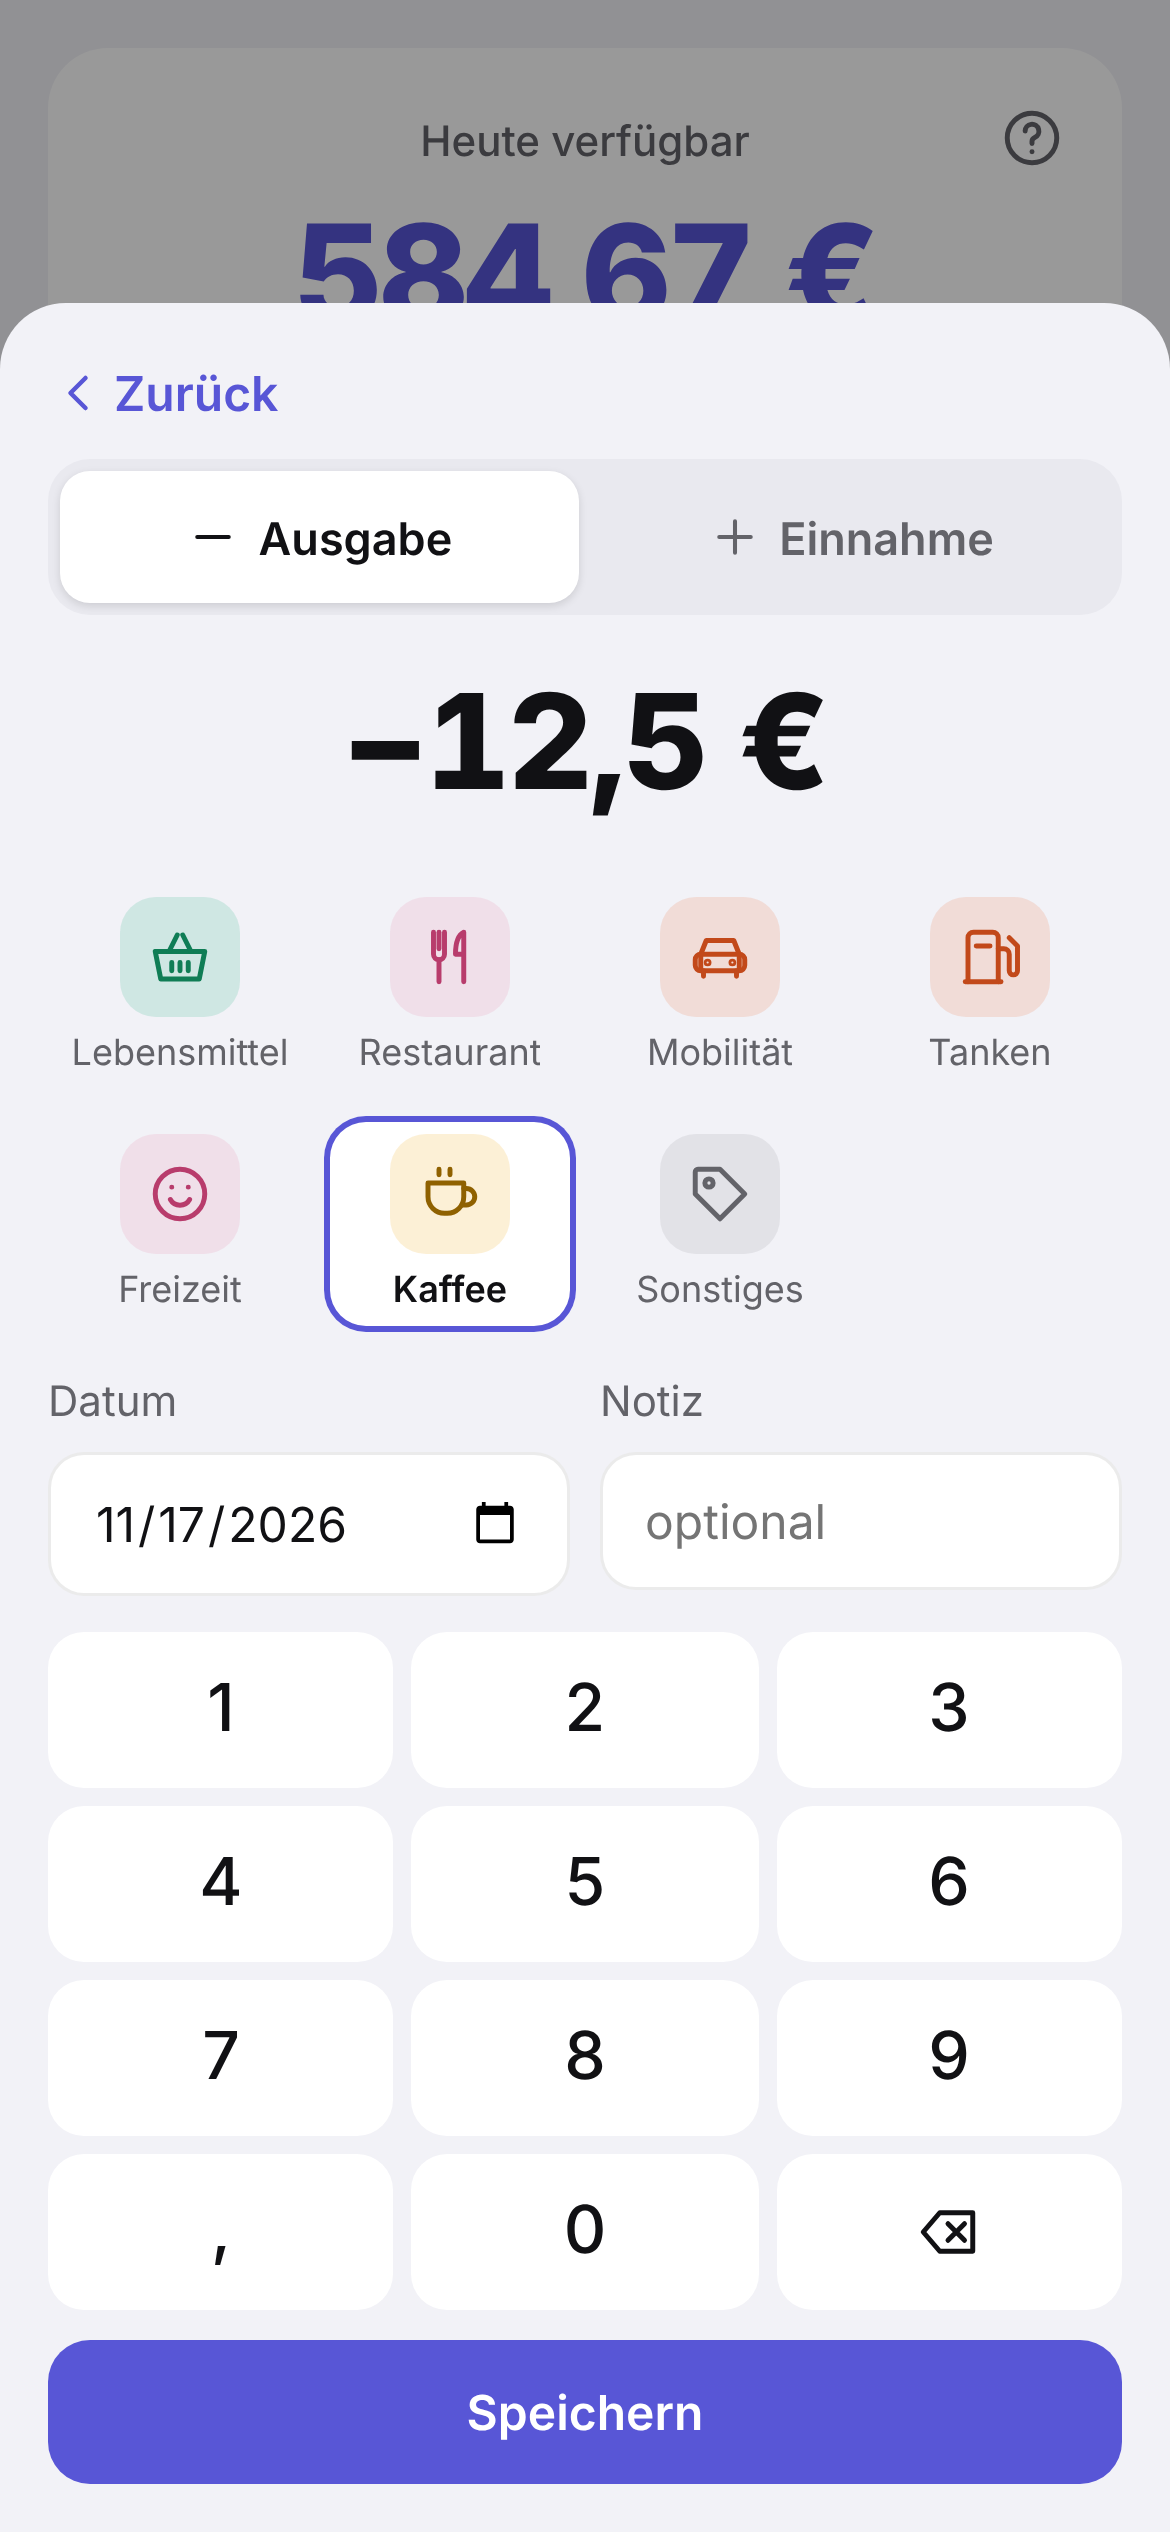
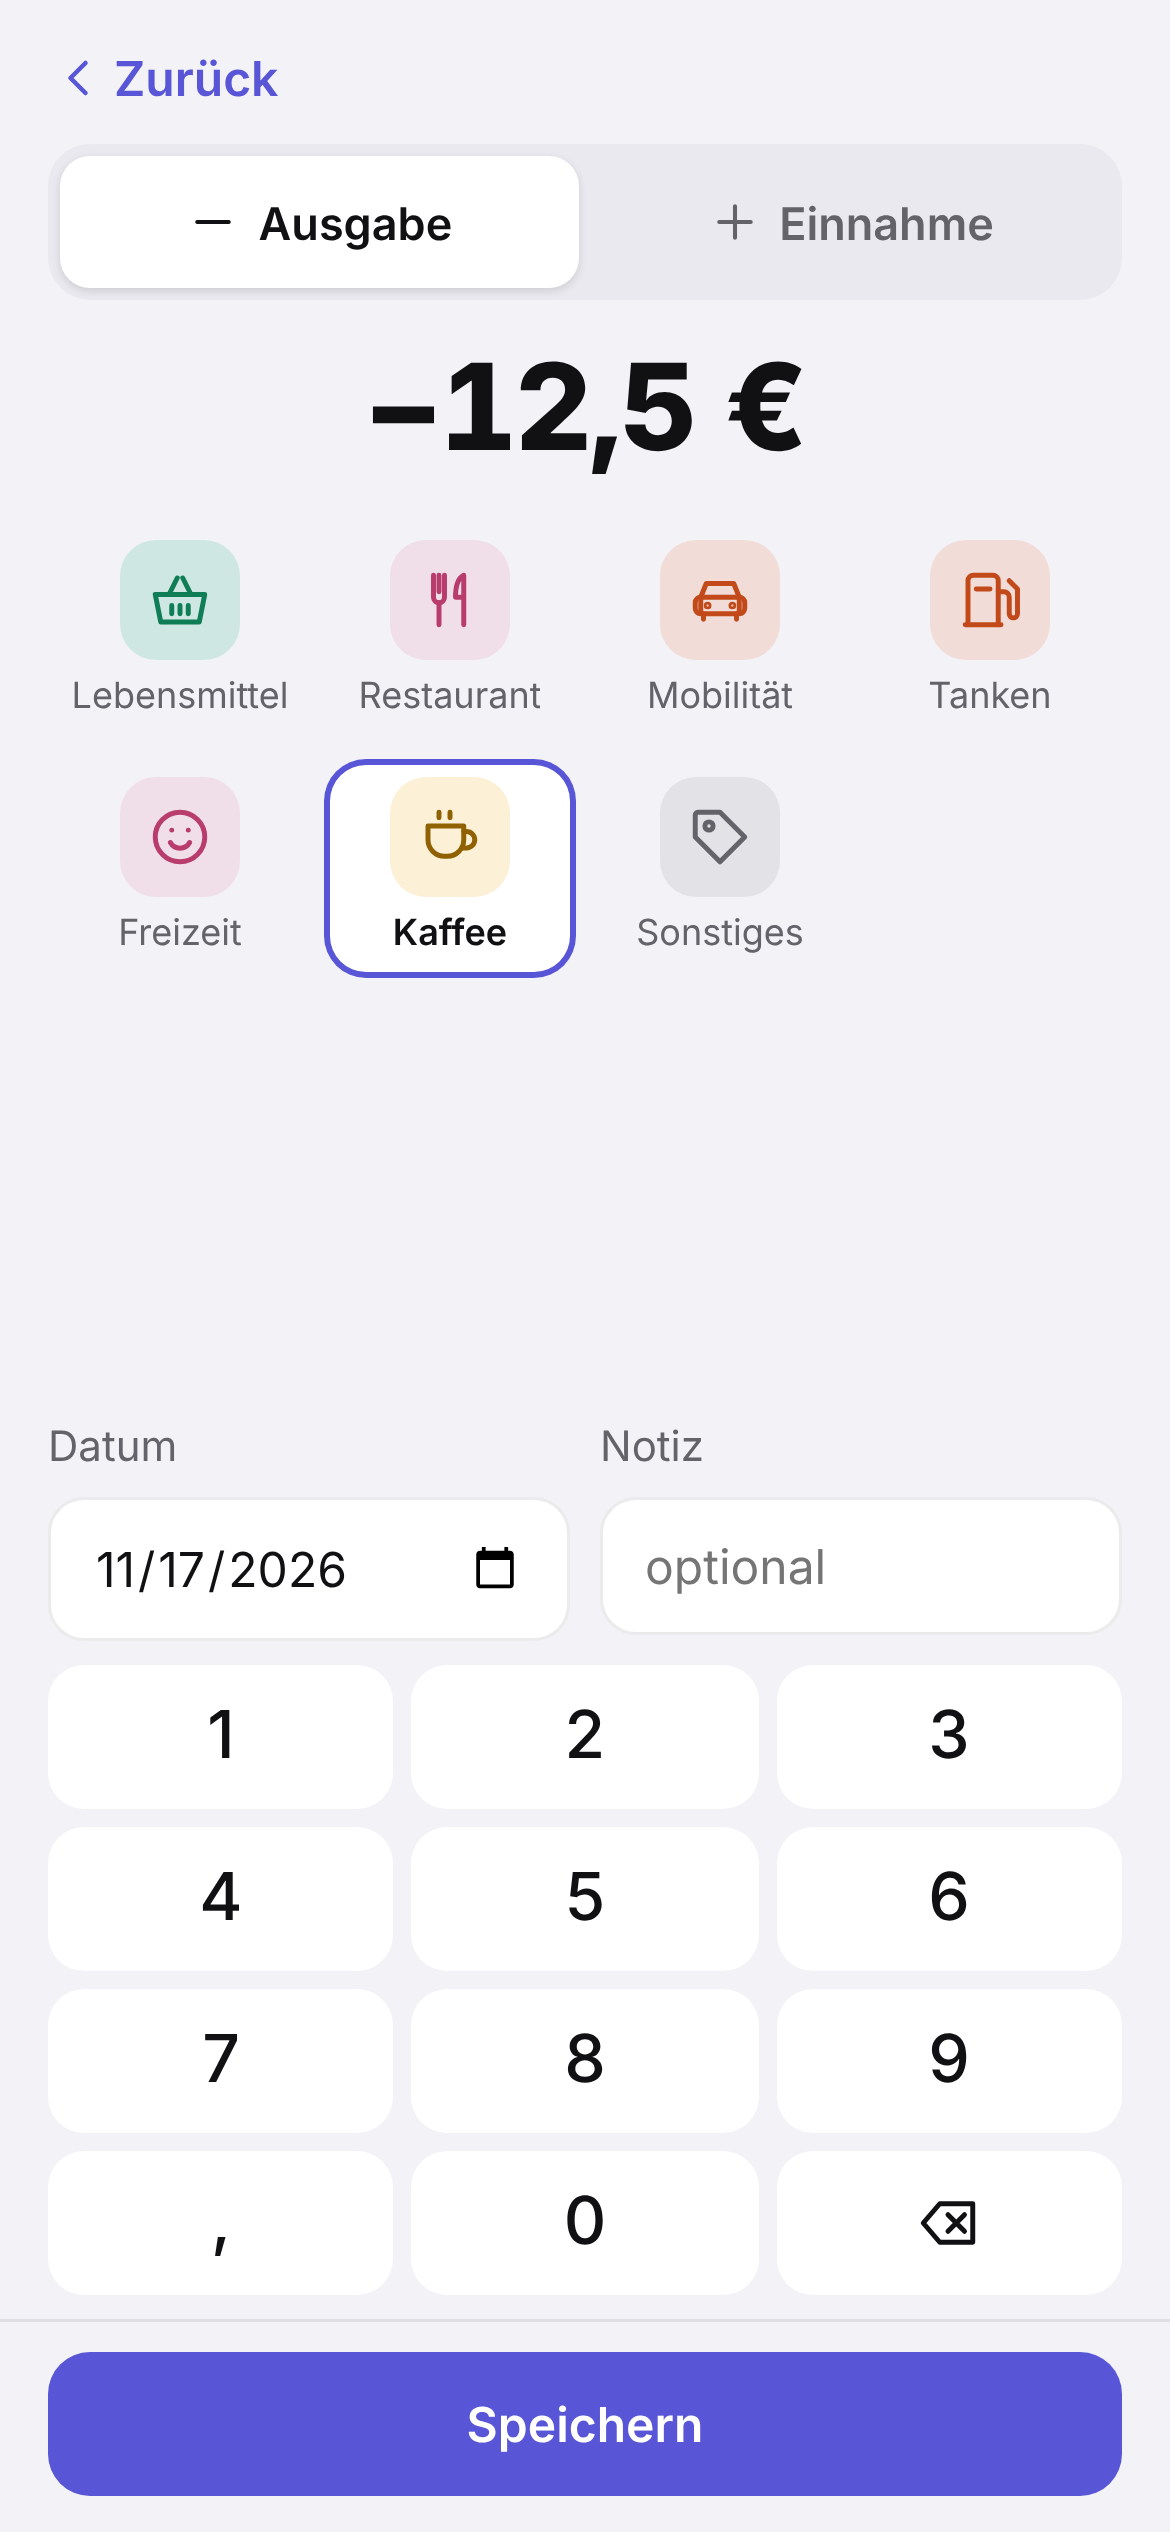
Full-screen sheets with Save fixed at the bottom (1.0.1)
Sheets now fill the screen (no gap at the top that looks draggable); the
content scrolls and the action buttons stay at the bottom edge. Entry sheet
fits on one screen; the category grid scrolls on its own if space is short.

Claude-Session: https://claude.ai/code/session_01QAm8hbi2NbAH5nWhDhnN4o

diff --git a/web/app.js b/web/app.js
@@ -1,7 +1,7 @@
 // Münzwerk Lite – Oberfläche. Alles läuft im Browser, Daten über Store (IndexedDB) auf dem Gerät.
 "use strict";
 
-const APP_VERSION = "1.0.0";
+const APP_VERSION = "1.0.1";
 const $ = (sel, root = document) => root.querySelector(sel);
 const esc = (s) => String(s ?? "").replace(/[&<>"']/g, (c) => ({ "&": "&amp;", "<": "&lt;", ">": "&gt;", '"': "&quot;", "'": "&#39;" })[c]);
 const money = new Intl.NumberFormat(LOCALE, { style: "currency", currency: "EUR" });
@@ -49,12 +49,14 @@ const HUES = { basket: 3, utensils: 5, home: 1, car: 2, fuel: 2, shirt: 5, smile
 const hue = (cat) => (cat && HUES[cat.icon]) ? `hue${HUES[cat.icon]}` : "hue0";
 
 // ------------------------------------------------------------------ Fenster (Sheet) und Hinweise
-function openSheet(html, { onClose } = {}) {
+// Fenster füllt den Bildschirm; „actions“ (Speichern usw.) stehen fest am unteren Rand, der Inhalt scrollt dazwischen
+function openSheet(html, { onClose, actions = "", cls = "" } = {}) {
   closeSheet();
   const wrap = document.createElement("div");
   wrap.className = "sheet-wrap";
-  wrap.innerHTML = `<div class="backdrop" data-close></div><div class="sheet" role="dialog" aria-modal="true">
-    <button class="back" data-close>${icon("chevronLeft")}${t("Zurück")}</button>${html}</div>`;
+  wrap.innerHTML = `<div class="backdrop" data-close></div><div class="sheet ${cls}" role="dialog" aria-modal="true">
+    <div class="sheet-top"><button class="back" data-close>${icon("chevronLeft")}${t("Zurück")}</button></div>
+    <div class="sheet-body">${html}</div>${actions ? `<div class="sheet-actions">${actions}</div>` : ""}</div>`;
   document.body.appendChild(wrap);
   wrap.addEventListener("click", (e) => { if (e.target.closest("[data-close]")) closeSheet(); });
   wrap._onClose = onClose;
@@ -77,9 +79,8 @@ function toast(msg) {
   setTimeout(() => el.remove(), 2300);
 }
 function confirmSheet(title, text, okLabel, onOk) {
-  const sh = openSheet(`<h3>${esc(title)}</h3><p class="meta">${esc(text)}</p>
-    <button class="btn danger block" id="c-ok">${esc(okLabel)}</button>
-    <button class="btn secondary block" data-close>${t("Abbrechen")}</button>`);
+  const sh = openSheet(`<h3>${esc(title)}</h3><p class="meta">${esc(text)}</p>`, {
+    actions: `<button class="btn secondary" data-close>${t("Abbrechen")}</button><button class="btn danger" id="c-ok">${esc(okLabel)}</button>` });
   $("#c-ok", sh).addEventListener("click", () => { closeSheet(); onOk(); });
 }
 
@@ -252,9 +253,9 @@ function openEntrySheet(kind, entry = null) {
       <label class="field"><span>${t("Notiz")}</span><input type="text" id="e-note" maxlength="60" placeholder="${t("optional")}" value="${esc(entry ? entry.note || "" : "")}"></label>
     </div>
     <div class="keypad">${["1", "2", "3", "4", "5", "6", "7", "8", "9", ",", "0", "⌫"].map((k) =>
-      `<button data-key="${k}" ${k === "⌫" ? `aria-label="⌫"` : k === "," ? `aria-label="${t("Komma")}"` : ""}>${k === "⌫" ? icon("backspace") : k}</button>`).join("")}</div>
-    <button class="btn block" id="e-save">${t("Speichern")}</button>
-    ${entry ? `<button class="btn secondary danger-text block" id="e-del">${icon("trash")}${t("Löschen")}</button>` : ""}`);
+      `<button data-key="${k}" ${k === "⌫" ? `aria-label="⌫"` : k === "," ? `aria-label="${t("Komma")}"` : ""}>${k === "⌫" ? icon("backspace") : k}</button>`).join("")}</div>`, {
+    cls: "entry-sheet",
+    actions: `${entry ? `<button class="btn secondary danger-text icon-only" id="e-del" aria-label="${t("Löschen")}">${icon("trash")}</button>` : ""}<button class="btn" id="e-save">${t("Speichern")}</button>` });
   const render = () => {
     sheet.querySelectorAll("[data-sign]").forEach((b) => b.setAttribute("aria-pressed", b.dataset.sign === sign));
     const v = L.parseAmount(amount || "0") || 0;
@@ -309,9 +310,8 @@ function openFixedSheet(fx = null) {
       <label class="field"><span>${t("Betrag")}</span><input type="text" inputmode="decimal" id="f-amount" value="${fx ? (Math.abs(fx.amount_cents) / 100).toLocaleString(LOCALE, { minimumFractionDigits: 2 }) : ""}" placeholder="0,00"></label>
       <label class="field"><span>${t("Tag im Monat")}</span><input type="number" inputmode="numeric" min="1" max="31" id="f-day" value="${fx && fx.day ? fx.day : ""}" placeholder="1"></label>
     </div>
-    ${fx ? `<label class="check"><input type="checkbox" id="f-active" ${fx.active !== false ? "checked" : ""}> ${t("Aktiv")}</label>` : ""}
-    <button class="btn block" id="f-save">${t("Speichern")}</button>
-    ${fx ? `<button class="btn secondary danger-text block" id="f-del">${icon("trash")}${t("Löschen")}</button>` : ""}`);
+    ${fx ? `<label class="check"><input type="checkbox" id="f-active" ${fx.active !== false ? "checked" : ""}> ${t("Aktiv")}</label>` : ""}`, {
+    actions: `${fx ? `<button class="btn secondary danger-text icon-only" id="f-del" aria-label="${t("Löschen")}">${icon("trash")}</button>` : ""}<button class="btn" id="f-save">${t("Speichern")}</button>` });
   const mark = () => sheet.querySelectorAll("[data-fkind]").forEach((b) => b.setAttribute("aria-pressed", b.dataset.fkind === kind));
   mark();
   sheet.addEventListener("click", (e) => {
@@ -342,9 +342,8 @@ function openCategorySheet(cat = null) {
   const sheet = openSheet(`<h3>${t("Kategorie")}</h3>
     <div class="seg" role="group">${["expense", "income"].map((k) => `<button data-ckind="${k}">${t(k === "income" ? "Einnahme" : "Ausgabe")}</button>`).join("")}</div>
     <label class="field"><span>${t("Name")}</span><input type="text" id="k-name" maxlength="40" value="${esc(cat ? cat.name : "")}"></label>
-    <div class="field"><span>${t("Symbol")}</span><div class="icon-pick">${CATEGORY_ICON_CHOICES.map((i) => `<button data-icon="${i}" aria-label="${i}">${icon(i)}</button>`).join("")}</div></div>
-    <button class="btn block" id="k-save">${t("Speichern")}</button>
-    ${cat ? `<button class="btn secondary danger-text block" id="k-del">${icon("trash")}${t("Löschen")}</button>` : ""}`);
+    <div class="field"><span>${t("Symbol")}</span><div class="icon-pick">${CATEGORY_ICON_CHOICES.map((i) => `<button data-icon="${i}" aria-label="${i}">${icon(i)}</button>`).join("")}</div></div>`, {
+    actions: `${cat ? `<button class="btn secondary danger-text icon-only" id="k-del" aria-label="${t("Löschen")}">${icon("trash")}</button>` : ""}<button class="btn" id="k-save">${t("Speichern")}</button>` });
   const mark = () => {
     sheet.querySelectorAll("[data-icon]").forEach((b) => b.setAttribute("aria-pressed", b.dataset.icon === chosen));
     sheet.querySelectorAll("[data-ckind]").forEach((b) => b.setAttribute("aria-pressed", b.dataset.ckind === kind));

diff --git a/web/styles.css b/web/styles.css
@@ -141,9 +141,27 @@ button { cursor: pointer; }
 /* Fenster */
 .sheet-wrap { position: fixed; inset: 0; z-index: 20; }
 .backdrop { position: absolute; inset: 0; background: rgba(0, 0, 0, .4); opacity: 0; transition: opacity .25s; }
-.sheet { position: absolute; left: 0; right: 0; bottom: 0; max-height: 94vh; max-height: 94dvh; overflow-y: auto; background: var(--bg);
-  border-radius: 22px 22px 0 0; padding: 8px 16px calc(env(safe-area-inset-bottom) + 16px); max-width: 560px; margin: 0 auto;
-  transform: translateY(100%); transition: transform .32s var(--ease); overscroll-behavior: contain; }
+/* Fenster füllt den ganzen Bildschirm (kein Spalt oben, der nach „weiter hochschieben“ aussieht);
+   Kopf mit Zurück, Inhalt scrollt, Knöpfe fest unten */
+.sheet { position: absolute; inset: 0; background: var(--bg); max-width: 560px; margin: 0 auto;
+  display: flex; flex-direction: column; transform: translateY(100%); transition: transform .32s var(--ease); }
+.sheet-top { flex: none; padding: calc(env(safe-area-inset-top) + 4px) 16px 0; }
+.sheet-body { flex: 1; min-height: 0; overflow-y: auto; overscroll-behavior: contain; padding: 0 16px 16px; }
+.sheet-actions { flex: none; display: flex; gap: 10px; padding: 10px 16px calc(env(safe-area-inset-bottom) + 12px);
+  background: var(--bg); border-top: 1px solid var(--line); }
+.sheet-actions .btn { flex: 1; }
+.sheet-actions .btn.icon-only { flex: none; width: 56px; padding: 0; }
+/* Eintragen: alles auf einen Bildschirm – Kategorien nehmen den Platz, der übrig ist, und scrollen notfalls selbst */
+.entry-sheet .sheet-body { display: flex; flex-direction: column; overflow: hidden; padding-bottom: 8px; }
+.entry-sheet .seg { flex: none; margin-bottom: 8px; }
+.entry-sheet .amount-display { flex: none; font-size: 40px; margin: 0 0 8px; }
+.entry-sheet .cat-grid { flex: 1 1 auto; min-height: 84px; max-height: none; margin-bottom: 8px;
+  overflow-y: auto; grid-auto-rows: max-content; align-content: start; }
+.entry-sheet .field-row { flex: none; }
+.entry-sheet .field { margin-bottom: 8px; }
+.entry-sheet .keypad { flex: none; }
+.entry-sheet .keypad button { min-height: 48px; }
+@media (max-height: 700px) { .entry-sheet .keypad button { min-height: 44px; font-size: 20px; } .entry-sheet .amount-display { font-size: 34px; } }
 .sheet-wrap.open .backdrop { opacity: 1; }
 .sheet-wrap.open .sheet { transform: none; }
 .sheet h3 { margin: 4px 0 12px; font-size: 20px; }

diff --git a/web/sw.js b/web/sw.js
@@ -1,6 +1,6 @@
 // Offline: alle App-Dateien liegen im Cache. Neue Version = neuer Cache-Name (CACHE), alter wird gelöscht.
 // Erst das Netz (damit Updates sofort ankommen), ohne Netz der Cache.
-const CACHE = "muenzwerk-lite-1.0.0";
+const CACHE = "muenzwerk-lite-1.0.1";
 const FILES = ["./", "index.html", "styles.css", "icons.js", "i18n.js", "calc.js", "store.js", "app.js",
   "manifest.webmanifest", "logo.svg", "icon-180.png", "icon-192.png", "icon-512.png"];
 
